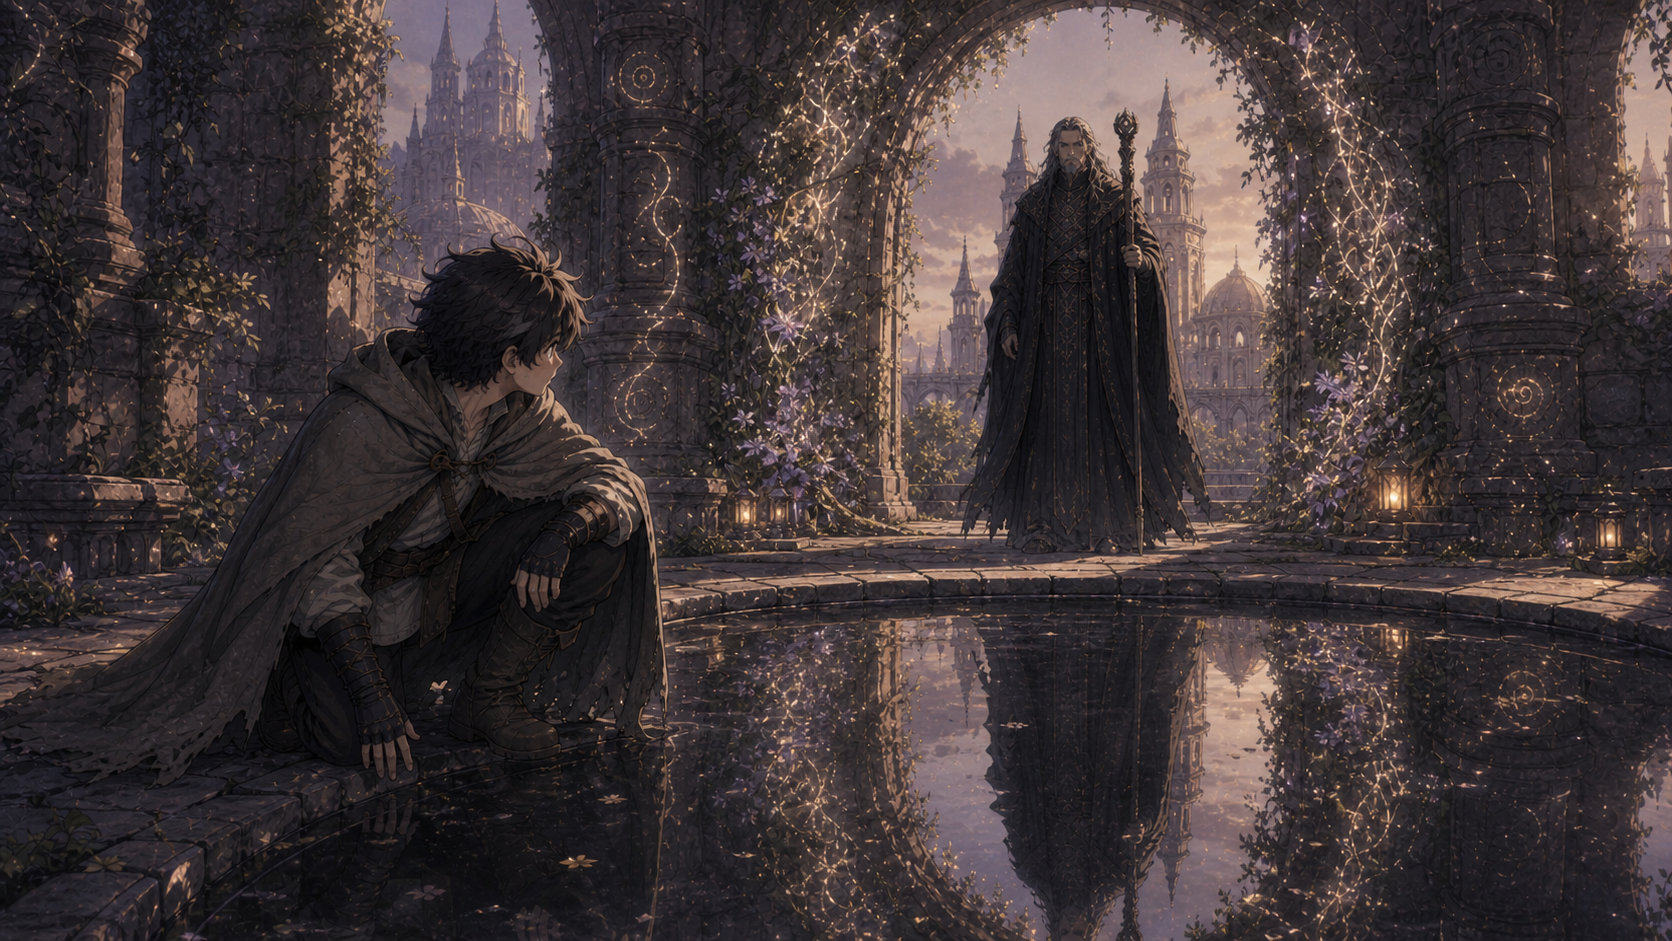
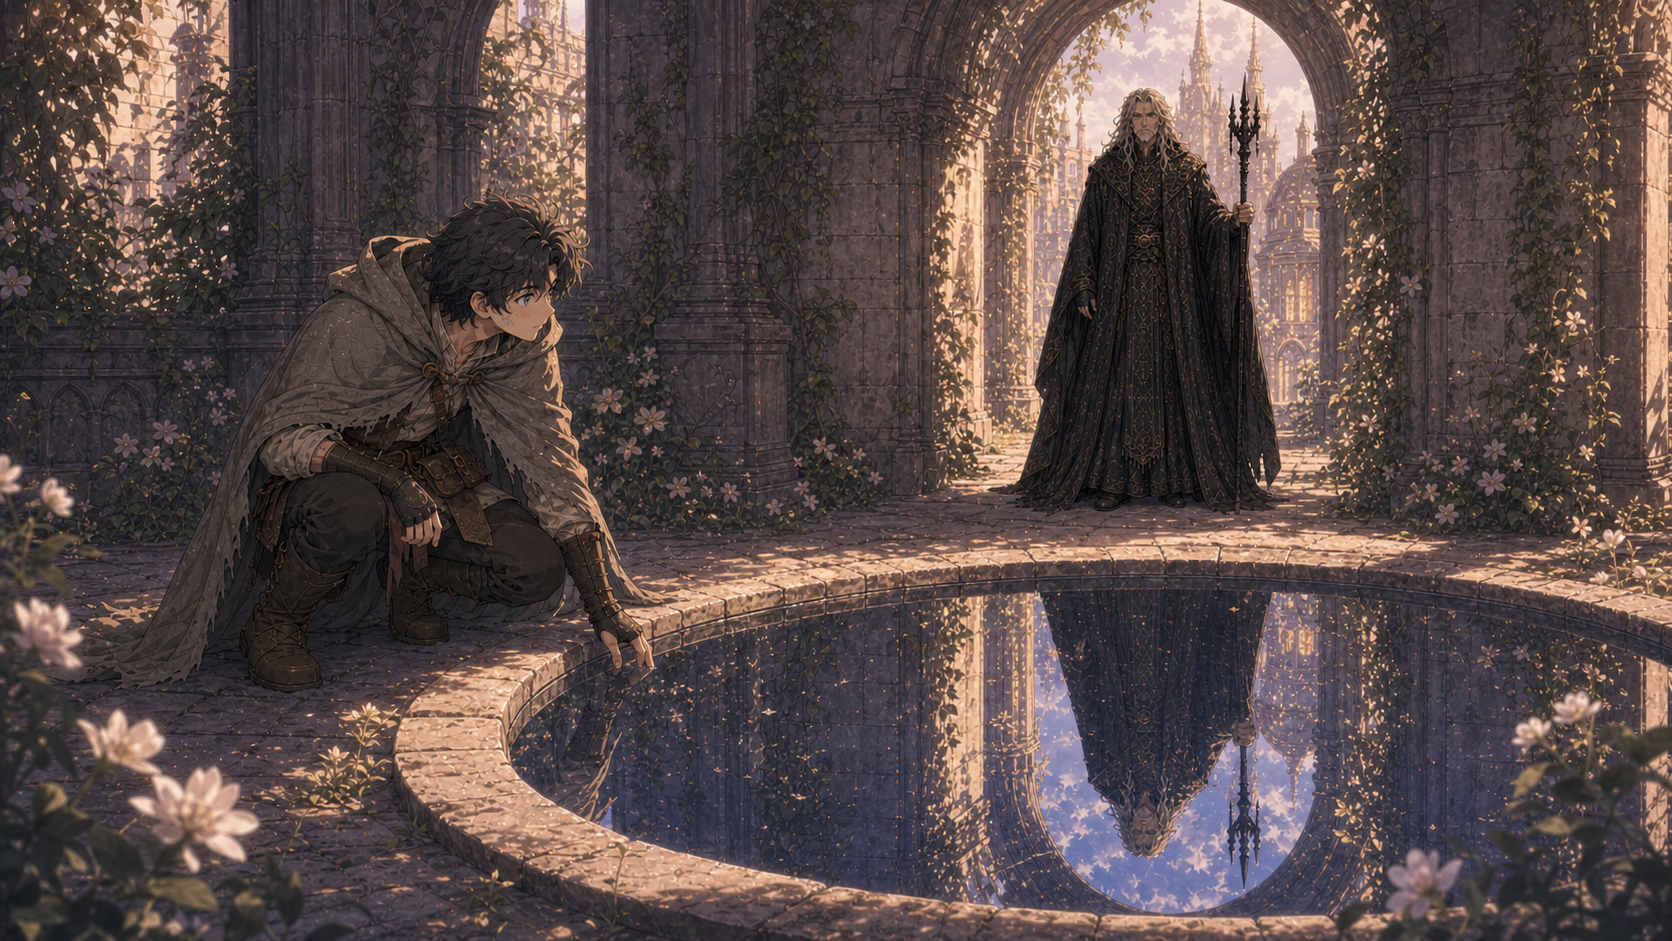
Batch 5 + cinematic opening + tighter prose top padding
- elian_arrives_pool: batch 5 redo — pool open courtyard with no
  archway over it (canon), Elian visible in stone arch set BACK
  from pool with iron spire-cluster staff.
- aerin_awakens: NEW opening shot — top-down "eyes just opened"
  cinematic frame. Inserted at very top of test.ink as the new
  first bg. The previous first bg (waking) now triggers at "Then
  he wasn't", which is the first beat where Aerin is upright.
- prose padding-top: 40 → 22px. The old value exceeded paragraph
  margin-bottom (1em ≈ 36px), so scrollChunkToTop's offset-padTop
  target landed inside the previous paragraph and its last line
  peeked above the new chunk. Now padTop < marginBottom, so the
  scroll target lands inside the inter-paragraph gap — no peek,
  and text starts closer to the panel top.

story.json recompiled from assets/narrative/test.ink via
inklecate. Verified aerin_awakens bg tag present in compiled
output.

diff --git a/lirien/style.css b/lirien/style.css
@@ -224,7 +224,11 @@ html, body {
 	border-radius: 12px;
 	overflow-y: auto;
 	overflow-x: hidden;
-	padding: 40px 36px 26px 36px;
+	/* padding-top must stay smaller than .prose-content p { margin-bottom }
+	 * (1em = font-size). Otherwise scrollChunkToTop's "scroll to
+	 * paragraph.offsetTop - padTop" lands inside the previous paragraph
+	 * and the bottom of its last line peeks at the top of the panel. */
+	padding: 22px 36px 26px 36px;
 	-webkit-overflow-scrolling: touch;
 	scrollbar-width: thin;
 	scrollbar-color: rgba(245, 235, 210, 0.3) transparent;
